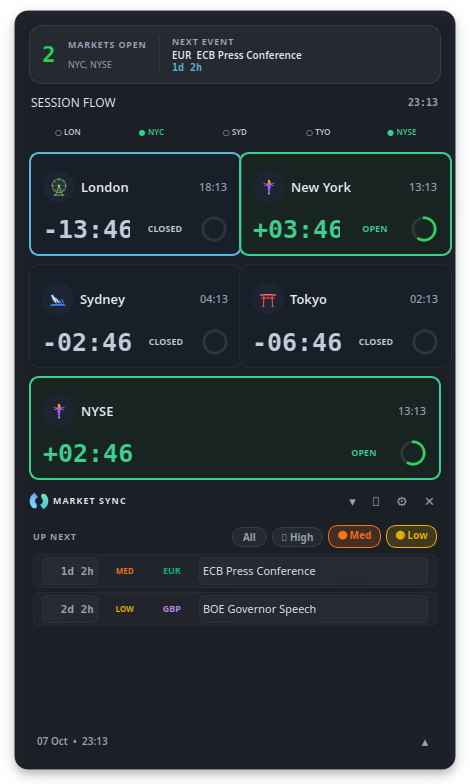
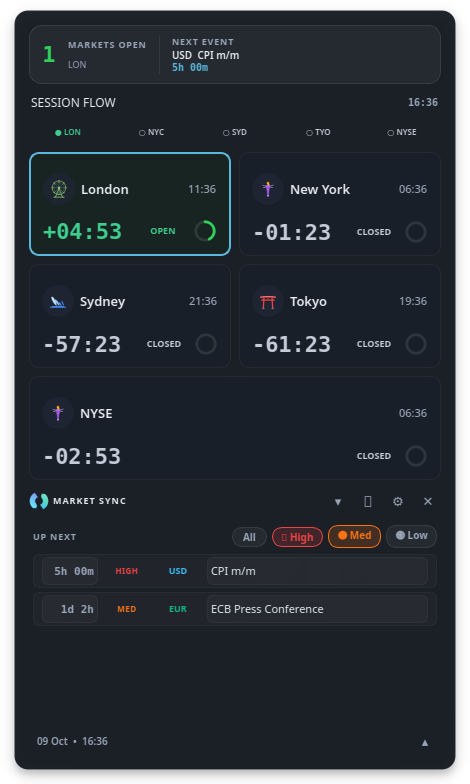
Card, pill & header design fixes (v1.5.1)
- Countdown clipping: rebudget card row (52px pill, 24px ring, 22px mono)
  so every magnitude fits; >=100h collapses to whole days ('-10d').
- True pills for news capsules (44x18, radius 9, softened High border).
- Header actions: one glyph system, one 26x22 box, bell at 15px.

diff --git a/ui.py b/ui.py
@@ -224,8 +224,8 @@ THEME_ICON = {
 # v2.0 news-impact capsules (dark + light variants)
 IMPACT_STYLE = {
     "High": {
-        "dark": ("#ef4444", "rgba(239, 68, 68, 0.18)", "rgba(239, 68, 68, 0.40)"),
-        "light": ("#b91c1c", "#fee2e2", "#fca5a5"),
+        "dark": ("#ef4444", "rgba(239, 68, 68, 0.18)", "rgba(239, 68, 68, 0.28)"),
+        "light": ("#b91c1c", "#fee2e2", "#fecaca"),
     },
     "Medium": {
         "dark": ("#f97316", "rgba(249, 115, 22, 0.18)", "rgba(249, 115, 22, 0.40)"),
@@ -759,17 +759,17 @@ if HAS_QT:
             lay.addLayout(top)
 
             bot = QHBoxLayout()
-            bot.setSpacing(6)
+            bot.setSpacing(4)
             self.cd_label = QLabel("+00:00")
-            self.cd_label.setFont(mono_font(25))
+            self.cd_label.setFont(mono_font(22))
             bot.addWidget(self.cd_label)
             bot.addStretch(1)
             self.pill = pill_label("OPEN")
             self.pill.setAlignment(Qt.AlignmentFlag.AlignCenter)
-            self.pill.setFixedSize(58, 20)
+            self.pill.setFixedSize(52, 20)
             self.pill.setFont(app_font(9, QFont.Weight.Bold))
             bot.addWidget(self.pill)
-            self.ring = MiniRingTimer(28)
+            self.ring = MiniRingTimer(24)
             bot.addWidget(self.ring)
             lay.addLayout(bot)
 
@@ -848,16 +848,21 @@ if HAS_QT:
                 Qt.AlignmentFlag.AlignRight | Qt.AlignmentFlag.AlignVCenter)
             lay.addWidget(self.rel_label)
 
+            imp_font = app_font(8, QFont.Weight.Bold)
+            try:
+                imp_font.setLetterSpacing(QFont.SpacingType.AbsoluteSpacing, 0.4)
+            except Exception:
+                pass
             self.imp_pill = pill_label("LOW")
-            self.imp_pill.setFont(app_font(8, QFont.Weight.Bold))
+            self.imp_pill.setFont(imp_font)
             self.imp_pill.setAlignment(Qt.AlignmentFlag.AlignCenter)
-            self.imp_pill.setFixedSize(40, 17)
+            self.imp_pill.setFixedSize(44, 18)
             lay.addWidget(self.imp_pill)
 
             self.cur_pill = pill_label("USD")
             self.cur_pill.setFont(app_font(9, QFont.Weight.Bold))
             self.cur_pill.setAlignment(Qt.AlignmentFlag.AlignCenter)
-            self.cur_pill.setFixedSize(40, 17)
+            self.cur_pill.setFixedSize(44, 18)
             lay.addWidget(self.cur_pill)
 
             self.title_label = QLabel("")
@@ -878,14 +883,14 @@ if HAS_QT:
             self.imp_pill.setText(IMPACT_SHORT.get(imp, imp[:3].upper()))
             self.imp_pill.setStyleSheet(
                 f"background: {bg}; color: {fg}; border: 1px solid {border};"
-                "border-radius: 4px; font-weight: bold;")
+                "border-radius: 9px; font-weight: bold;")
 
             cur = (ev.get("currency") or ev.get("country") or "").upper()
             c_fg = currency_color(cur, theme_name, theme["cyan"])
             self.cur_pill.setText(cur[:3])
             self.cur_pill.setStyleSheet(
                 f"background: {theme['input_bg']}; color: {c_fg};"
-                "border: 1px solid " + theme["row_border"] + ";" "border-radius: 4px; font-weight: bold;")
+                "border: 1px solid " + theme["row_border"] + ";" "border-radius: 9px; font-weight: bold;")
 
             self.title_label.setText(ev.get("title", "Event"))
             self.title_label.setStyleSheet(f"color: {theme['text']};")
@@ -1181,8 +1186,12 @@ class SessionPanel(QWidget):
         brand.addWidget(self.title)
         brand.addStretch(1)
 
+        # header actions: one glyph system, one box size. Text glyphs render
+        # in the UI font at 13px; the bell emoji needs 15px to match optically.
+        # (gear is U+2699 *without* VS16 so it renders as a text glyph.)
         self.drawer_btn = QPushButton("▾")
         self.drawer_btn.setProperty("class", "bar")
+        self.drawer_btn.setFixedSize(26, 22)
         self.drawer_btn.setCursor(Qt.CursorShape.PointingHandCursor)
         self.drawer_btn.setToolTip("Expand / collapse Up Next")
         self.drawer_btn.clicked.connect(self.toggle_drawer)
@@ -1190,13 +1199,16 @@ class SessionPanel(QWidget):
 
         self.bell_btn = QPushButton("🔔")
         self.bell_btn.setProperty("class", "bar")
+        self.bell_btn.setFixedSize(26, 22)
+        self.bell_btn.setStyleSheet("font-size: 15px;")
         self.bell_btn.setCursor(Qt.CursorShape.PointingHandCursor)
         self.bell_btn.setToolTip("Notifications on / off")
         self.bell_btn.clicked.connect(self.c.toggle_alerts)
         brand.addWidget(self.bell_btn)
 
-        self.gear_btn = QPushButton("⚙")
+        self.gear_btn = QPushButton("⚙")
         self.gear_btn.setProperty("class", "bar")
+        self.gear_btn.setFixedSize(26, 22)
         self.gear_btn.setCursor(Qt.CursorShape.PointingHandCursor)
         self.gear_btn.setToolTip("Preferences")
         self.gear_btn.clicked.connect(self.c.open_preferences)
@@ -1204,6 +1216,7 @@ class SessionPanel(QWidget):
 
         self.close_btn = QPushButton("✕")
         self.close_btn.setProperty("class", "bar")
+        self.close_btn.setFixedSize(26, 22)
         self.close_btn.setCursor(Qt.CursorShape.PointingHandCursor)
         self.close_btn.setToolTip("Hide panel (app keeps running)")
         self.close_btn.clicked.connect(self.hide)

diff --git a/markets.py b/markets.py
@@ -246,13 +246,22 @@ def format_countdown(td: timedelta) -> str:
 
 
 def format_signed_countdown(td: timedelta, is_open: bool, include_seconds: bool = False) -> str:
-    """Design System v2.0 style: '+04:05' while open, '-00:35' while closed."""
+    """Signed countdown: '+04:05' while open, '-00:35' while closed.
+
+    Day scale: at/above 100h the hour count is unreadable on cards
+    ('-240:00'), so it collapses to whole days ('-10d') — intraday
+    precision at that range is noise; exact times live in tooltips/drawer.
+    """
     secs = max(0, int(td.total_seconds()))
-    h, rem = divmod(secs, 3600)
-    m, s = divmod(rem, 60)
     sign = "+" if is_open else "-"
     if include_seconds:
+        h, rem = divmod(secs, 3600)
+        m, s = divmod(rem, 60)
         return f"{sign}{h:02d}:{m:02d}:{s:02d}"
+    if secs >= 100 * 3600:
+        return f"{sign}{secs // 86400}d"
+    h, rem = divmod(secs, 3600)
+    m, _s = divmod(rem, 60)
     return f"{sign}{h:02d}:{m:02d}"
 
 

diff --git a/config.py b/config.py
@@ -7,7 +7,7 @@ from copy import deepcopy
 
 APP_NAME = "Market Sync"
 APP_ID = "market-sync"
-APP_VERSION = "1.5.0"
+APP_VERSION = "1.5.1"
 APP_AUTHOR = "Mahabub H. Aabir"
 APP_EMAIL = "maha_bub@outlook.com"
 

diff --git a/CHANGES.md b/CHANGES.md
@@ -4,6 +4,20 @@ Tracking file for code changes, install fixes, and how the app works.
 
 ## Changelog
 
+### v1.5.1 — 2026-10-09 — Card, pill & header design fixes
+
+- **Congested countdowns**: the 25px countdown label was 4px short of its
+  text (`-61:3'` instead of `-61:37`). Rebudgeted the card row (pill 52px,
+  ring 24px, spacing 4px, countdown 22px mono) so every magnitude fits, and
+  `format_signed_countdown` collapses >=100h to whole days (`-10d`) —
+  intraday precision at that range is noise. Harness asserts no clipping.
+- **HIGH pill looked boxy**: pills are now true pills (44x18, radius 9,
+  letter-spaced 8px text) with a softened High border — same geometry for
+  HIGH/MED/LOW/Holiday on every theme.
+- **Header buttons inconsistent**: text glyphs vs color emoji at one size
+  never align. Gear is now a text glyph (no VS16), all four actions share a
+  26x22 box, the bell emoji is bumped to 15px to match optically.
+
 ### v1.5.0 — 2026-10-07 — Command-center redesign + reliability merge
 
 **Hotfix 2026-10-09 (same version, no bump)**

diff --git a/README.md b/README.md
@@ -12,7 +12,7 @@ economic calendar.
 
 ## Install (one command)
 
-Latest release: **v1.5.0** — older `.deb` releases were pruned, so always
+Latest release: **v1.5.1** — older `.deb` releases were pruned, so always
 install the newest asset from the
 [Releases page](https://github.com/mahabubaabir/market-sync/releases).
 
